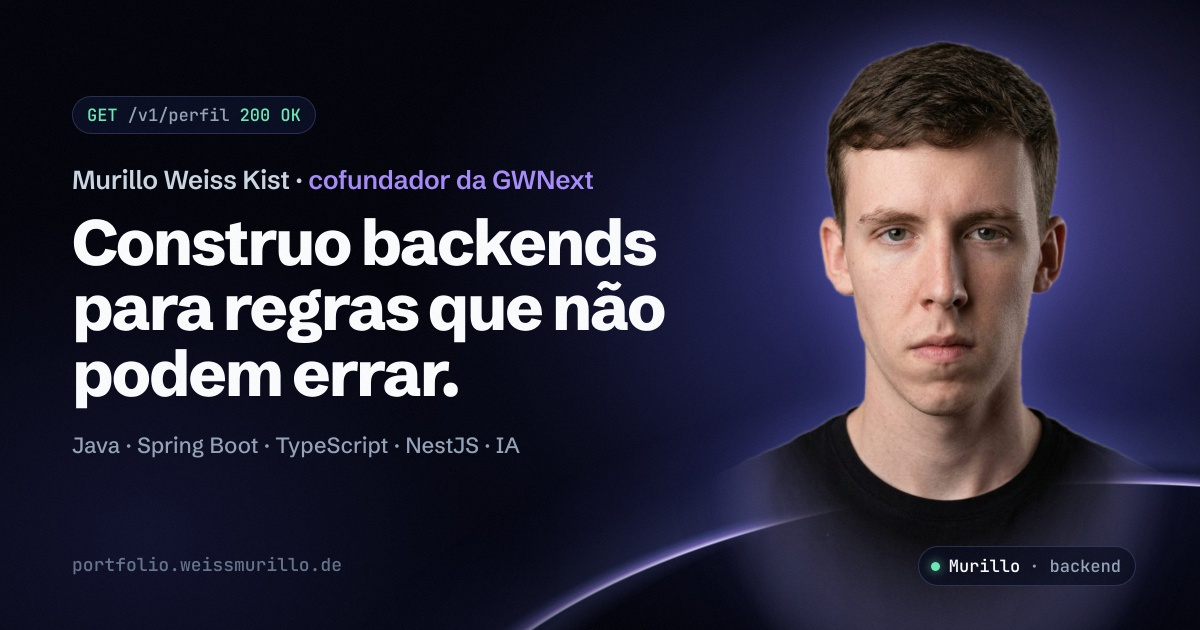
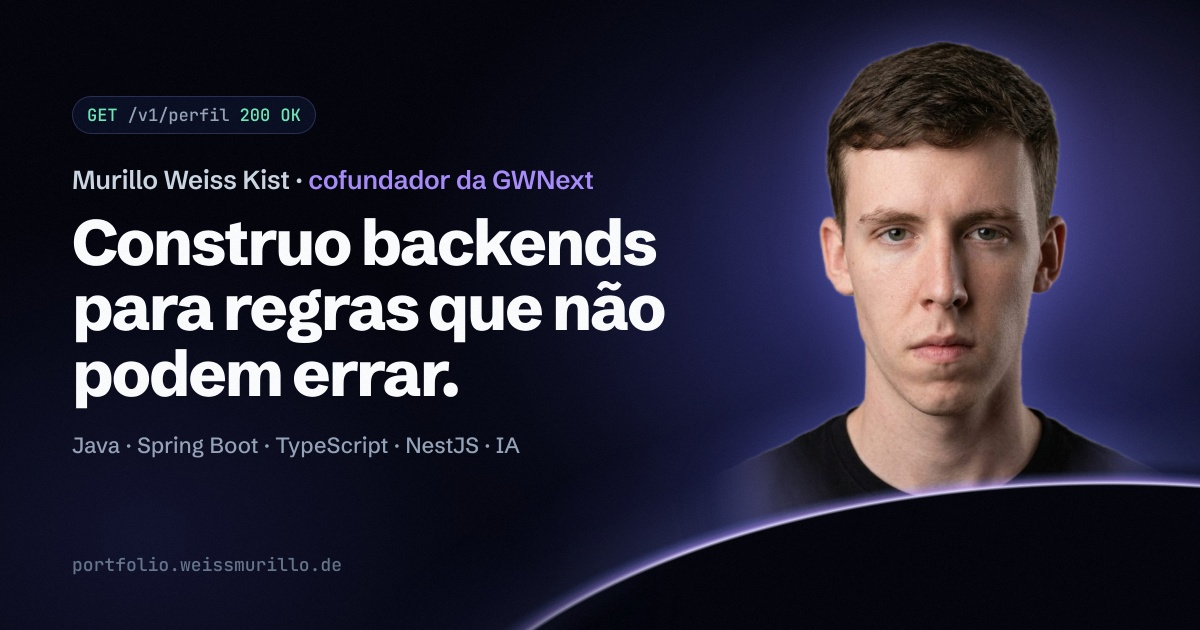
feat(seo): cover portrait rises from behind the horizon
- Remove the "Murillo · backend" tag.
- The horizon is now a dark ellipse (the planet) drawn in front of the
  portrait, with its lit rim: the shoulders disappear behind it and the
  rim's light passes in front of the shirt, so the figure rises from
  behind the horizon, which also carries the face-centred crop chat
  apps show. 187 KB.

Claude-Session: https://claude.ai/code/session_016NmV4XHhjG4M5cr6sdKRHL

Changed region(s): [[0.4933, 0.754, 0.9867, 1.0]]

diff --git a/scripts/og/template.html b/scripts/og/template.html
@@ -3,7 +3,7 @@
   Link-preview cover (og:image), rendered by scripts/og/render.mjs.
   1200x630 card for large previews; the right-hand portrait area is also designed to stand
   on its own, because chat apps (WhatsApp & co.) crop the card to a small face-centred
-  thumbnail. Same palette and lighting as the site's hero.
+  thumbnail: the figure rising from behind the lit horizon carries that crop. Same palette and lighting as the site's hero.
 -->
 <html lang="pt-BR">
 <head>
@@ -33,11 +33,13 @@
       radial-gradient(30% 42% at 84% 30%, rgba(167, 139, 250, 0.30), rgba(167, 139, 250, 0.10) 55%, transparent 90%),
       radial-gradient(40% 60% at 12% 85%, rgba(99, 102, 241, 0.14), transparent 85%);
   }
-  /* Horizon: a huge ellipse whose rim is lit from behind, passing behind the shoulders. */
+  /* Horizon: a huge dark ellipse (the planet) with its rim lit from behind. It is drawn in
+     front of the portrait, so the shoulders disappear behind it and the light of the rim
+     passes in front of the shirt: the figure rises from behind the horizon. */
   .horizon {
     position: absolute; left: 360px; top: 470px; width: 1500px; height: 760px;
     border-radius: 50%;
-    background: radial-gradient(closest-side, transparent 96.2%, rgba(221, 214, 254, 0.95) 96.6%, rgba(167, 139, 250, 0.55) 97.4%, rgba(129, 140, 248, 0.22) 98.6%, rgba(99, 102, 241, 0.06) 99.6%, transparent 100%);
+    background: radial-gradient(closest-side, var(--bg) 95.9%, rgba(221, 214, 254, 0.95) 96.6%, rgba(167, 139, 250, 0.55) 97.4%, rgba(129, 140, 248, 0.22) 98.6%, rgba(99, 102, 241, 0.06) 99.6%, transparent 100%);
     -webkit-mask-image: linear-gradient(90deg, transparent 0%, #000 22%, #000 55%, transparent 80%);
     mask-image: linear-gradient(90deg, transparent 0%, #000 22%, #000 55%, transparent 80%);
   }
@@ -69,15 +71,6 @@
     -webkit-mask-composite: source-in;
     mask-composite: intersect;
   }
-  .tag {                     /* stays inside the face-centred crop chat apps make */
-    position: absolute; right: 64px; bottom: 44px;
-    display: flex; align-items: center; gap: 9px;
-    padding: 8px 14px 8px 12px; border-radius: 999px;
-    border: 1px solid var(--line); background: rgba(10, 13, 30, 0.72);
-    font: 500 17px 'JetBrains Mono', monospace; color: var(--muted);
-  }
-  .tag i { width: 9px; height: 9px; border-radius: 50%; background: var(--mint); box-shadow: 0 0 10px rgba(110, 231, 183, 0.8); }
-  .tag b { color: var(--text); font-weight: 500; }
 
   /* ---- text ---- */
   .copy { position: absolute; left: 72px; top: 96px; width: 600px; }
@@ -98,9 +91,8 @@
 <body>
   <div class="light"></div>
   <div class="horizon-glow"></div>
-  <div class="horizon"></div>
   <div class="portrait-wrap"><img class="portrait" src="../../design/murillo-cutout.png" alt="" /></div>
-  <div class="tag"><i></i><b>Murillo</b> · backend</div>
+  <div class="horizon"></div>
 
   <div class="copy">
     <div class="pill"><span class="get">GET</span> /v1/perfil <span class="ok">200 OK</span></div>
